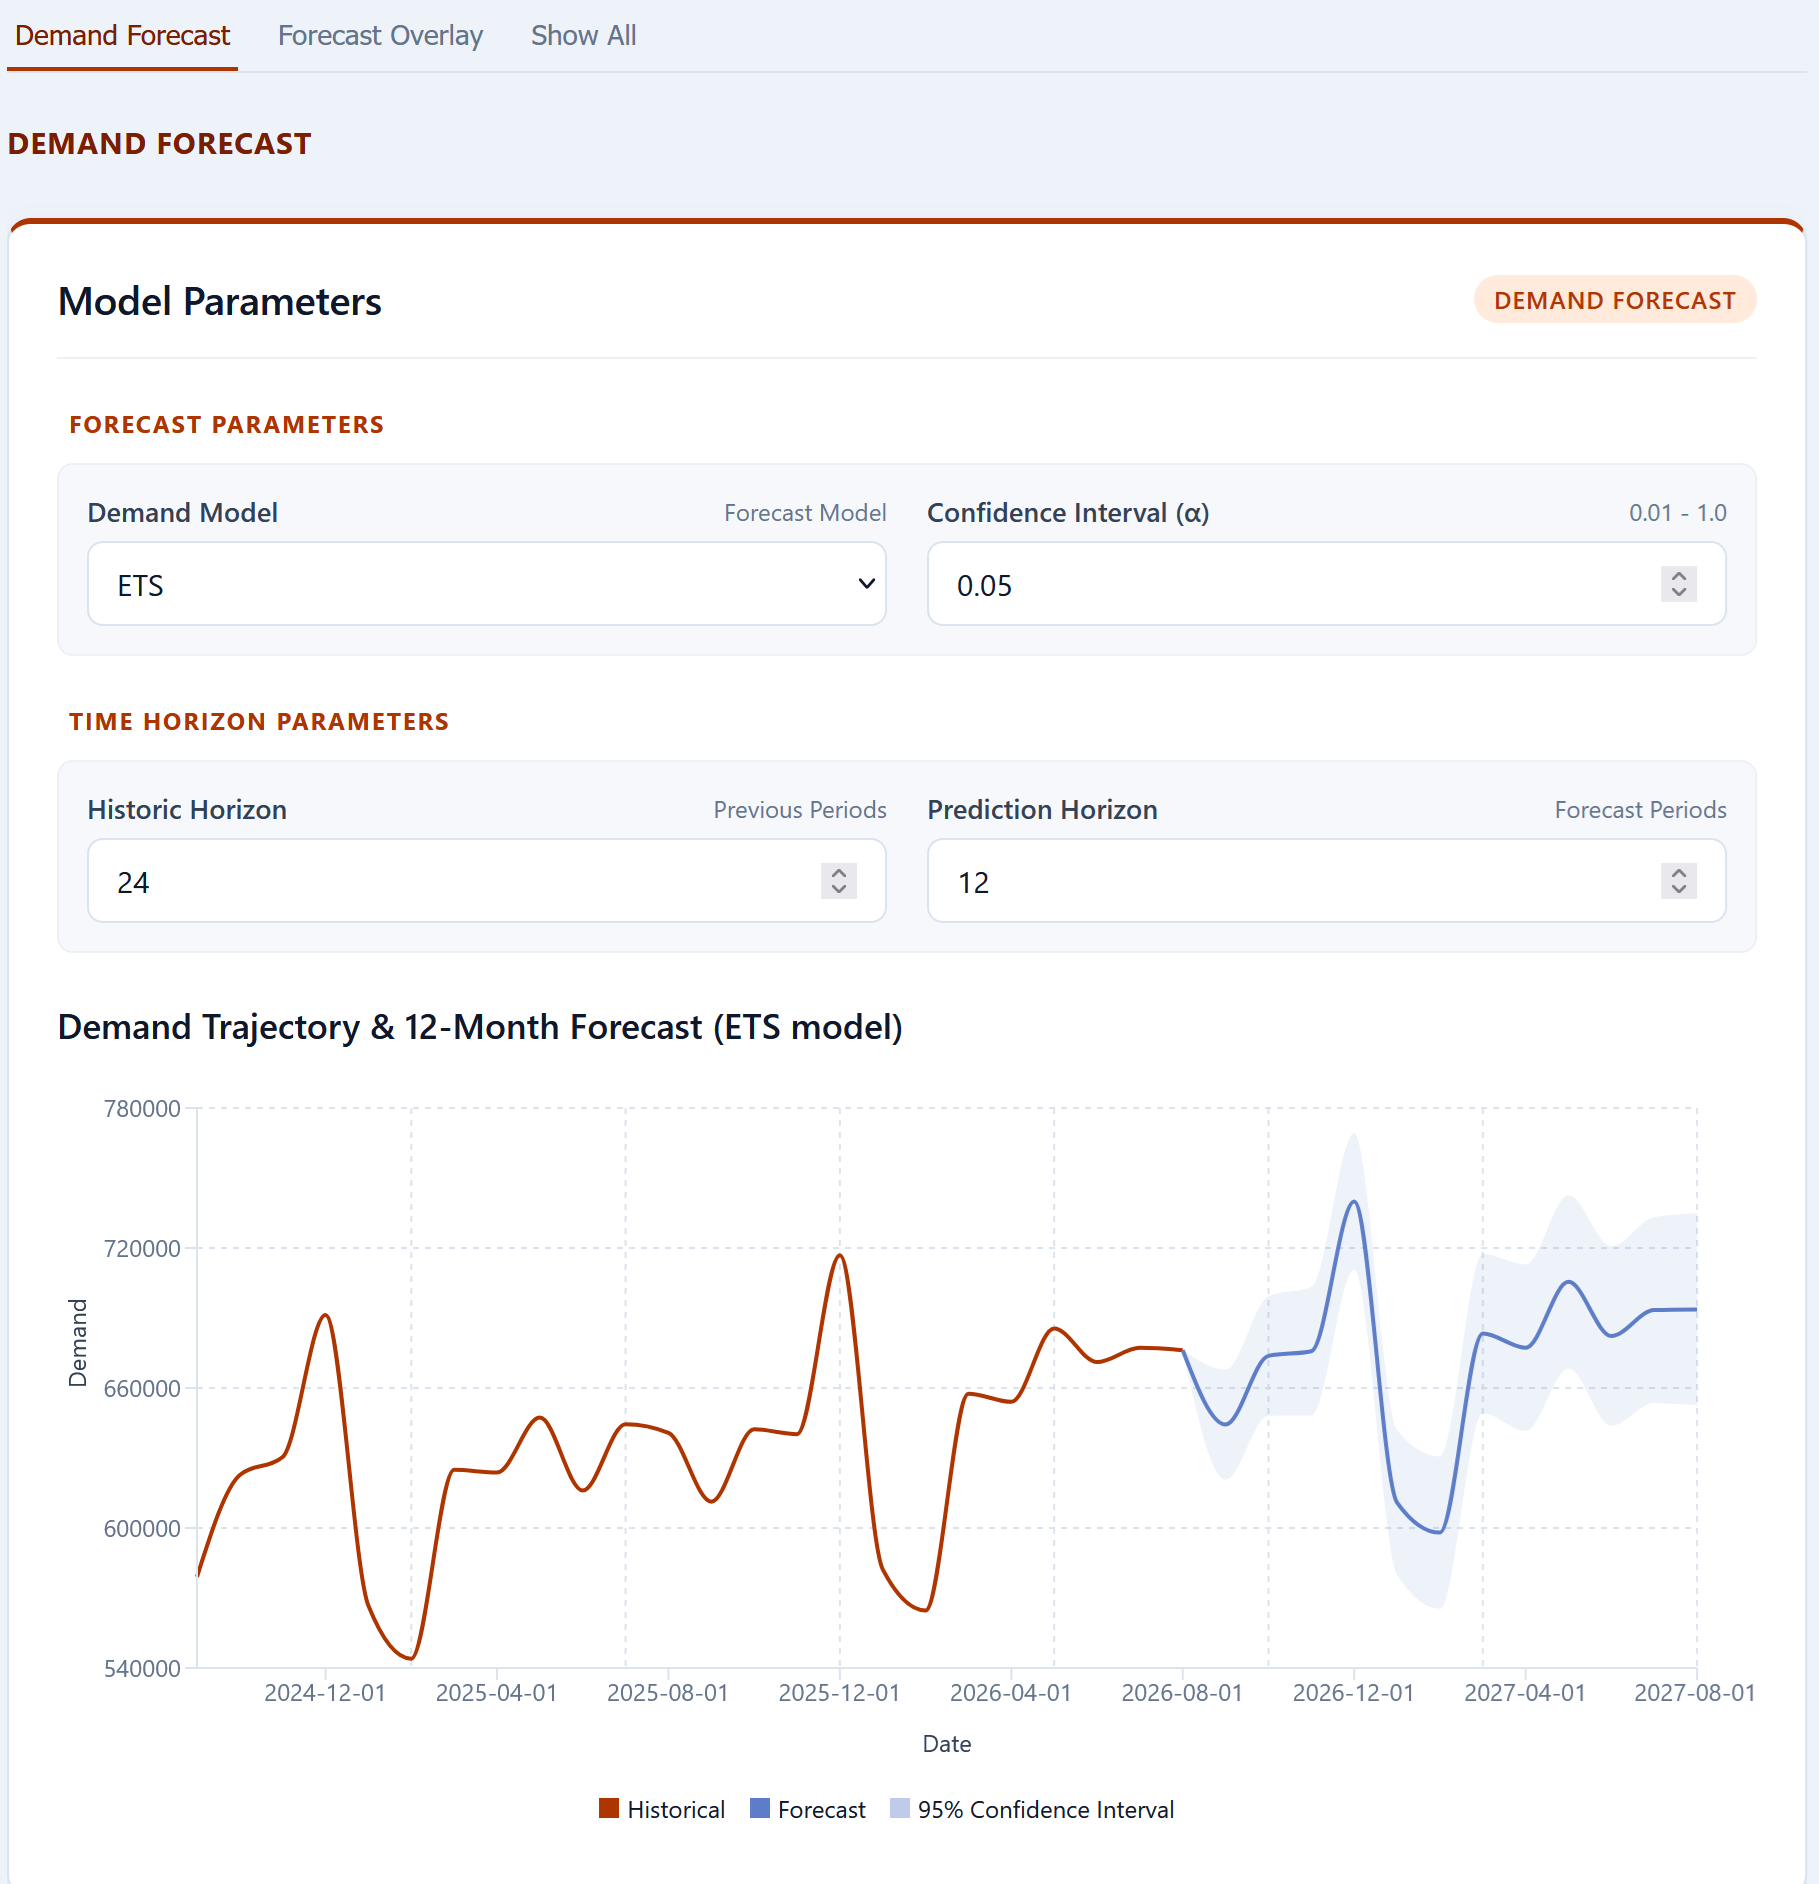
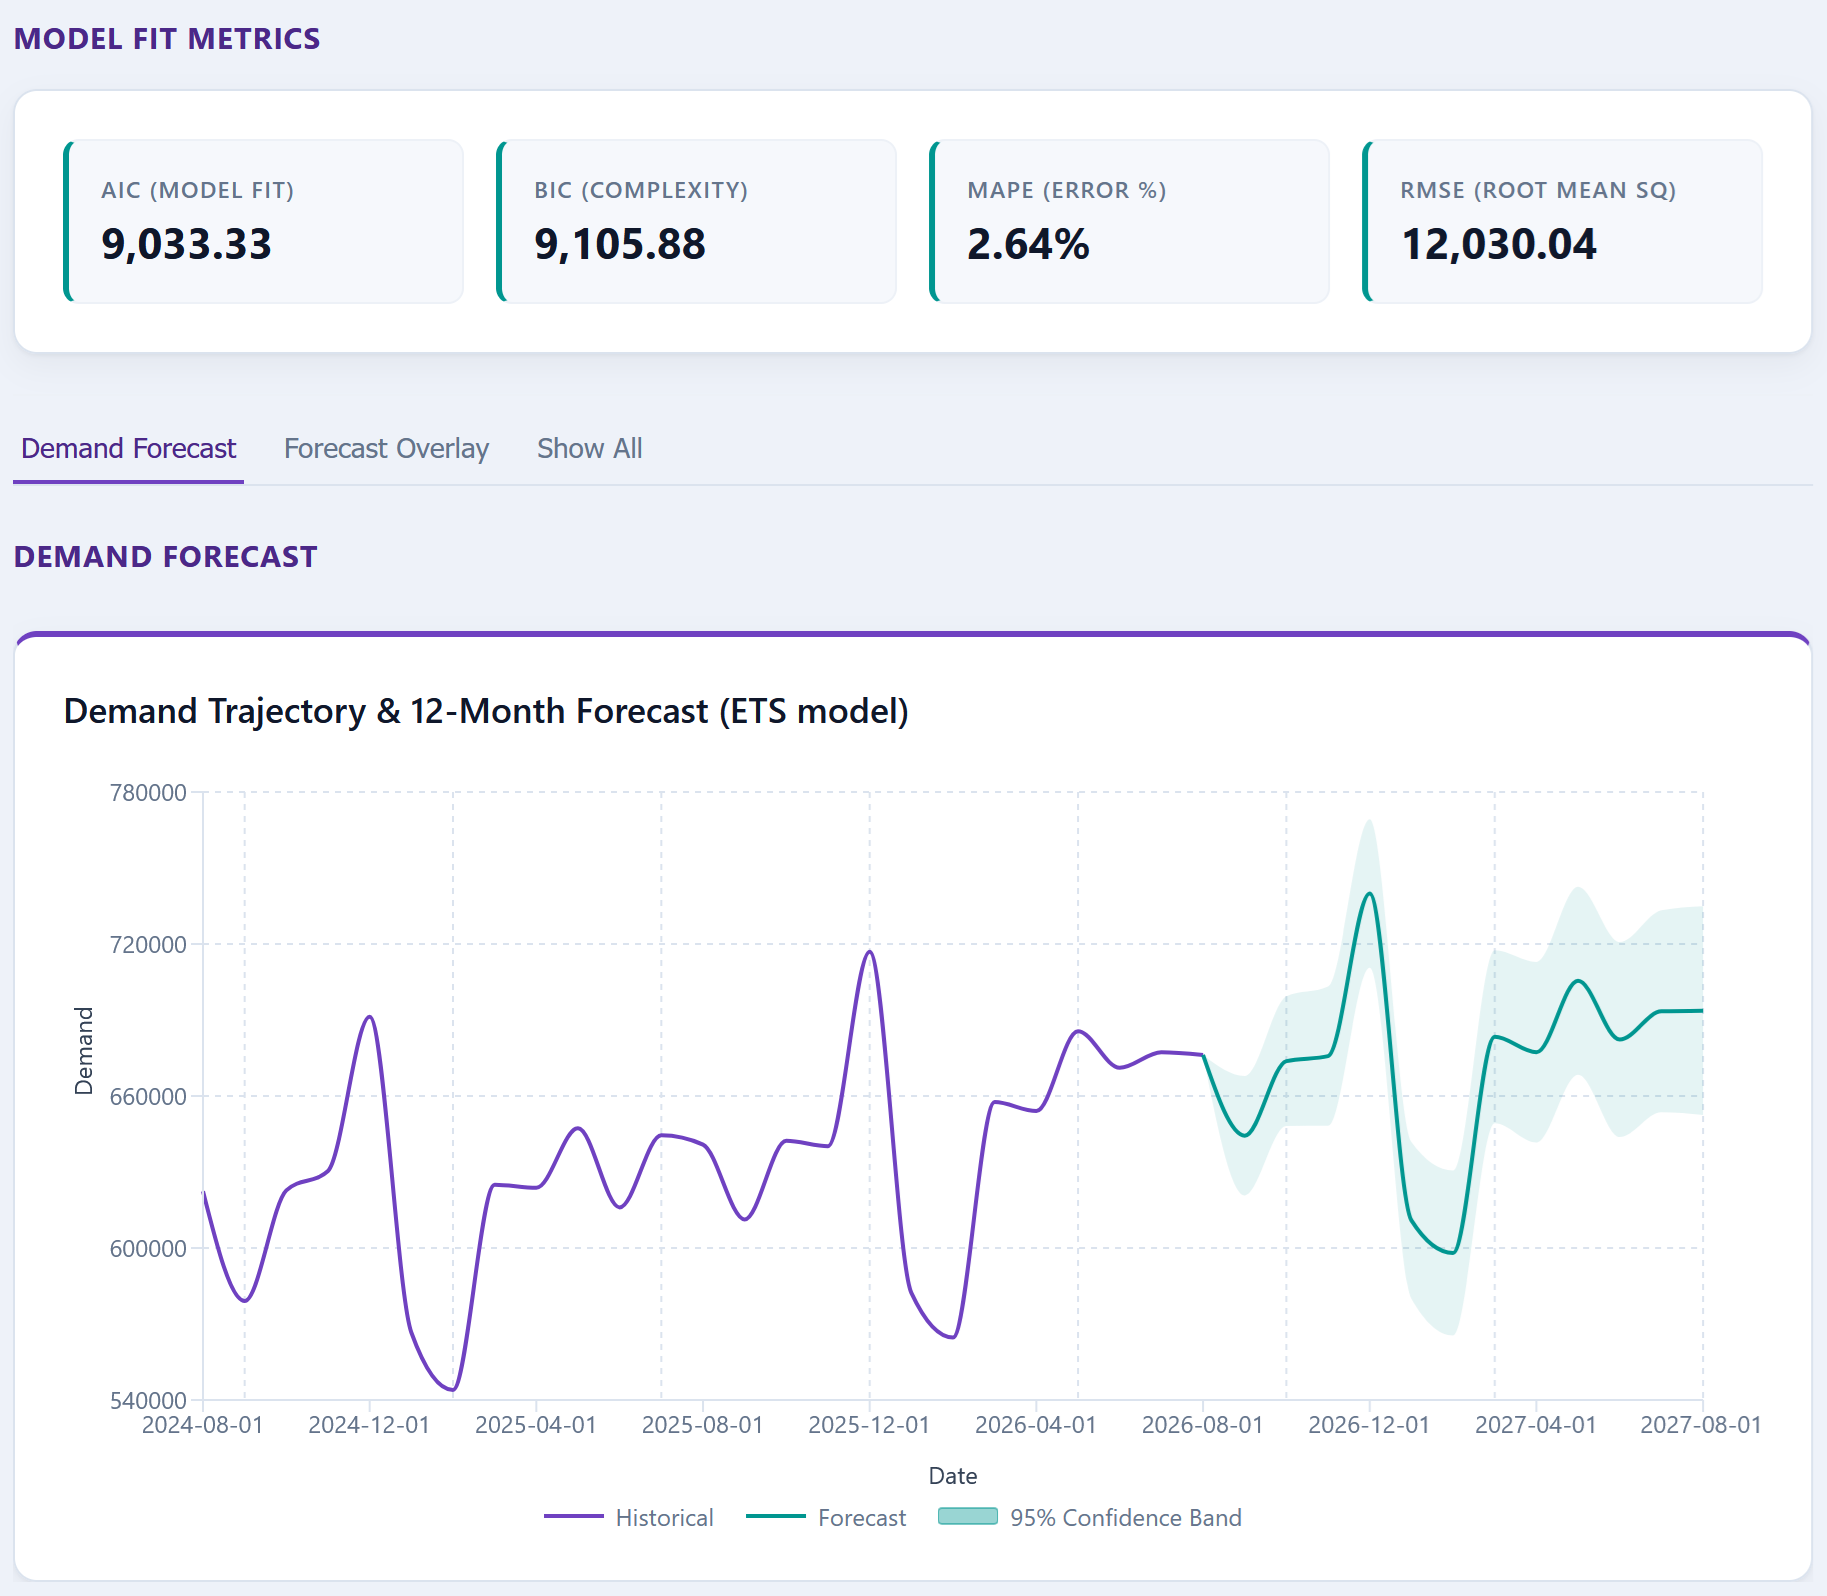
Update demand dash page #personal_site

diff --git a/public/views/demand-dashboard.html b/public/views/demand-dashboard.html
@@ -15,7 +15,7 @@
     An interactive time-series forecasting app that runs Python (Pandas and
     Statsmodels) entirely in the browser through WebAssembly. Upload a CSV,
     map its columns, and compare ETS, SARIMAX and Theta forecasts with
-    adjustable confidence intervals, with no server involved.
+    confidence intervals and fit metrics, with no server involved.
   </p>
   <div class="hero-actions">
     <a
@@ -75,8 +75,8 @@
       Users can explore built-in economic benchmarks (such as FRED US retail
       sales) or upload their own CSV. Through the interface they map arbitrary
       column names, choose a periodicity, and compare several models complete
-      with uncertainty bounds, in a layout that adapts to light, dark and
-      custom brand colours.
+      with uncertainty bounds and fit metrics, in a layout that adapts to
+      light, dark, and custom brand colours.
     </p>
     <div class="pull-quote">
       <p>
@@ -96,14 +96,16 @@
     <p class="section-body">
       A single Python pipeline prepares the data. Uploaded or built-in files
       are parsed for dates, sorted chronologically and mapped to a standard
-      schema. Depending on the chosen frequency (Monthly, Quarterly, Weekly or
-      Daily), the engine resamples and fills gaps
-      (<code>resample().sum().ffill().fillna(0)</code>) while keeping the
-      DatetimeIndex that Statsmodels requires. The cleaned series is fitted
-      with ETS, SARIMAX and Theta using the matching seasonal period, and
-      trajectories and prediction intervals are returned to TypeScript as a
-      typed result for charting. Failures take the same route: Python raises,
-      and a single bridge turns the exception into a readable message.
+      schema. Depending on the chosen frequency (Annual, Quarterly, Monthly,
+      Weekly or Daily), the engine resamples the series
+      (<code>resample(freq).sum()</code>) while keeping the DatetimeIndex that
+      Statsmodels requires. Each model (ETS, SARIMAX and Theta) is then fitted
+      independently with the matching seasonal period, so one that can't be
+      fitted to a dataset is reported as unavailable while the others still
+      produce forecasts. Trajectories, prediction intervals and fit metrics
+      return to TypeScript as a typed result for charting. Failures take the
+      same route: Python raises, and a single bridge turns the exception into
+      a readable message.
     </p>
   </section>
 
@@ -118,25 +120,7 @@
         <div class="feature-title">Pyodide WebAssembly Runtime</div>
         <div class="feature-body">
           Executes CPython, Pandas data manipulation and Statsmodels fitting
-          in browser memory, with no remote API workers.
-        </div>
-      </div>
-
-      <div class="feature-card">
-        <div class="feature-icon">📁</div>
-        <div class="feature-title">Custom CSV Upload &amp; Header Mapper</div>
-        <div class="feature-body">
-          Upload any CSV and choose the date and target demand columns
-          through an interactive React header selector.
-        </div>
-      </div>
-
-      <div class="feature-card">
-        <div class="feature-icon">🔄</div>
-        <div class="feature-title">Multi-Periodicity Support</div>
-        <div class="feature-body">
-          Handles Monthly, Quarterly, Weekly and Daily data, with date
-          offsets and seasonal lags adjusted automatically.
+          in browser memory, with no backend or server-side API.
         </div>
       </div>
 
@@ -146,6 +130,49 @@
         <div class="feature-body">
           Compares Exponential Smoothing (ETS), Seasonal ARIMA (SARIMAX) and
           Theta forecasts with a configurable confidence level (<i>α</i>).
+          Each model has its own colour and line pattern in the overlay.
+        </div>
+      </div>
+
+      <div class="feature-card">
+        <div class="feature-icon">📁</div>
+        <div class="feature-title">Custom CSV Upload &amp; Header Mapper</div>
+        <div class="feature-body">
+          Upload any CSV and choose the date and target demand columns through
+          an interactive React header selector. Detects comma, semicolon or
+          tab delimiters, strips Excel's byte-order mark, rejects empty files
+          with a clear message, and warns when the date and demand columns
+          are the same.
+        </div>
+      </div>
+
+      <div class="feature-card">
+        <div class="feature-icon">🔄</div>
+        <div class="feature-title">Multi-Periodicity Support</div>
+        <div class="feature-body">
+          Handles Annual, Quarterly, Monthly, Weekly and Daily data, with date
+          offsets and seasonal periods adjusted automatically. Annual data
+          uses non-seasonal models.
+        </div>
+      </div>
+
+      <div class="feature-card">
+        <div class="feature-icon">🧮</div>
+        <div class="feature-title">Model Comparison Metrics</div>
+        <div class="feature-body">
+          Reports AIC, BIC, MAPE and RMSE for each fitted model so they can be
+          compared side by side. These are in-sample measures, and Theta
+          reports RMSE only.
+        </div>
+      </div>
+
+      <div class="feature-card">
+        <div class="feature-icon">🛟</div>
+        <div class="feature-title">Resilient Model Fitting</div>
+        <div class="feature-body">
+          Each model is fitted independently. If one can't be fitted to a
+          dataset it is marked unavailable and the others still display. A
+          run fails with a clear message only when none of them can be fitted.
         </div>
       </div>
 
@@ -155,6 +182,8 @@
         <div class="feature-body">
           Separate controls for the historic display horizon (which doesn't
           change what the models are fitted on) and the prediction horizon.
+          Changing the prediction horizon updates the forecast without
+          refitting.
         </div>
       </div>
 
@@ -173,18 +202,21 @@
         <div class="feature-title">Adaptive Theming</div>
         <div class="feature-body">
           Light, dark or system-following themes, brand colour presets and
-          custom hue sliders. Preferences persist between visits, and charts,
-          tooltips and controls all follow the active palette.
+          custom hue sliders with a minimum hue separation. Chart series
+          colours come from the same tokens, and preferences persist between
+          visits.
         </div>
       </div>
 
       <div class="feature-card">
         <div class="feature-icon">♿</div>
-        <div class="feature-title">Accessible Controls</div>
+        <div class="feature-title">Accessible Charts and Controls</div>
         <div class="feature-body">
-          Real radio inputs for theme and colour choices, <code>aria-expanded</code>
-          on disclosures, Escape-to-close with focus handling on the error
-          dialog, and reduced-motion support.
+          Series differ by line pattern as well as colour, and the legend
+          draws the same patterns. Theme and colour choices use real radio
+          inputs, disclosures use <code>aria-expanded</code>, the error dialog
+          closes with Escape and manages focus, and animation respects
+          reduced-motion settings.
         </div>
       </div>
     </div>
@@ -210,17 +242,26 @@
       <div class="tech-row">
         <div class="tech-key">Dynamic seasonal period mapping</div>
         <div class="tech-val">
-          Frequency is routed to a seasonal period automatically (Monthly →
-          12, Quarterly → 4, Weekly → 52, Daily → 7) to avoid matrix
-          dimension and convergence failures across different datasets.
+          Frequency is routed to a seasonal period automatically (Annual → 1,
+          with non-seasonal models, Quarterly → 4, Monthly → 12, Weekly → 52,
+          Daily → 7) to avoid matrix dimension and convergence failures
+          across different datasets.
         </div>
       </div>
       <div class="tech-row">
         <div class="tech-key">Aggregation via resample().sum()</div>
         <div class="tech-val">
           Used <code>.resample(freq).sum()</code> instead of rigid reindexing
-          so transaction-level uploads roll up into the correct periodic bins,
-          with gaps filled by forward-fill and zero-padding.
+          so transaction-level uploads roll up into the correct periodic bins.
+        </div>
+      </div>
+      <div class="tech-row">
+        <div class="tech-key">Per-frequency forecast date offsets</div>
+        <div class="tech-val">
+          Forecast end dates are computed per frequency (for example
+          <code>months = 3 * steps</code> for quarterly data and
+          <code>years = steps</code> for annual) so predictions move forward
+          by the right number of periods rather than a fixed number of months.
         </div>
       </div>
       <div class="tech-row">
@@ -239,11 +280,23 @@
         </div>
       </div>
       <div class="tech-row">
-        <div class="tech-key">Quarterly date offset calculation</div>
+        <div class="tech-key">Draft inputs vs. fitted inputs</div>
         <div class="tech-val">
-          Multiplied forecast steps by 3 (<code>months = 3 * steps</code>) for
-          quarterly data so prediction end dates move forward by the right
-          number of quarters rather than months.
+          Edits to the dataset go into a draft state and are applied only by
+          <em>Run Forecast</em>, which copies them into the "fitted" state
+          once a run succeeds. Whether the results are out of date is derived
+          by comparing the two rather than tracked with a flag, so a failed
+          run can never mark stale results as current.
+        </div>
+      </div>
+      <div class="tech-row">
+        <div class="tech-key">Derived display state</div>
+        <div class="tech-val">
+          All fitted model results are stored allowing chart data, metrics, and the
+          visible model to be derived from the display choices. Swwitching model 
+          or history length needs no Python call and can't
+          drift out of sync. Results are committed together after both the fit
+          and the forecast succeed.
         </div>
       </div>
       <div class="tech-row">

diff --git a/assets/ts/types.ts b/assets/ts/types.ts
@@ -45,17 +45,17 @@ export type ViewCallback = (params: CallbackProps) => void | Promise<void>;
 export type ViewCallbackKey = keyof typeof viewCallbacks;
 
 export type ViewCallbackProps = {
- home: ViewCallback[];
- about: ViewCallback[];
- work: ViewCallback[];
- articles: ViewCallback[];
- 'report-download-hub': ViewCallback[];
- 'admin-doc-repo': ViewCallback[];
- 'react-native-tzcomp': ViewCallback[];
- 'wordpress-plugins': ViewCallback[];
- 'personal-site-page': ViewCallback[];
- 'articles/building-a-router': ViewCallback[];
- 'wireframe-effect': ViewCallback[];
+  home: ViewCallback[];
+  about: ViewCallback[];
+  work: ViewCallback[];
+  articles: ViewCallback[];
+  'report-download-hub': ViewCallback[];
+  'admin-doc-repo': ViewCallback[];
+  'react-native-tzcomp': ViewCallback[];
+  'wordpress-plugins': ViewCallback[];
+  'personal-site-page': ViewCallback[];
+  'articles/building-a-router': ViewCallback[];
+  'wireframe-effect': ViewCallback[];
 }
 
 export interface CreateHTMLProps {
